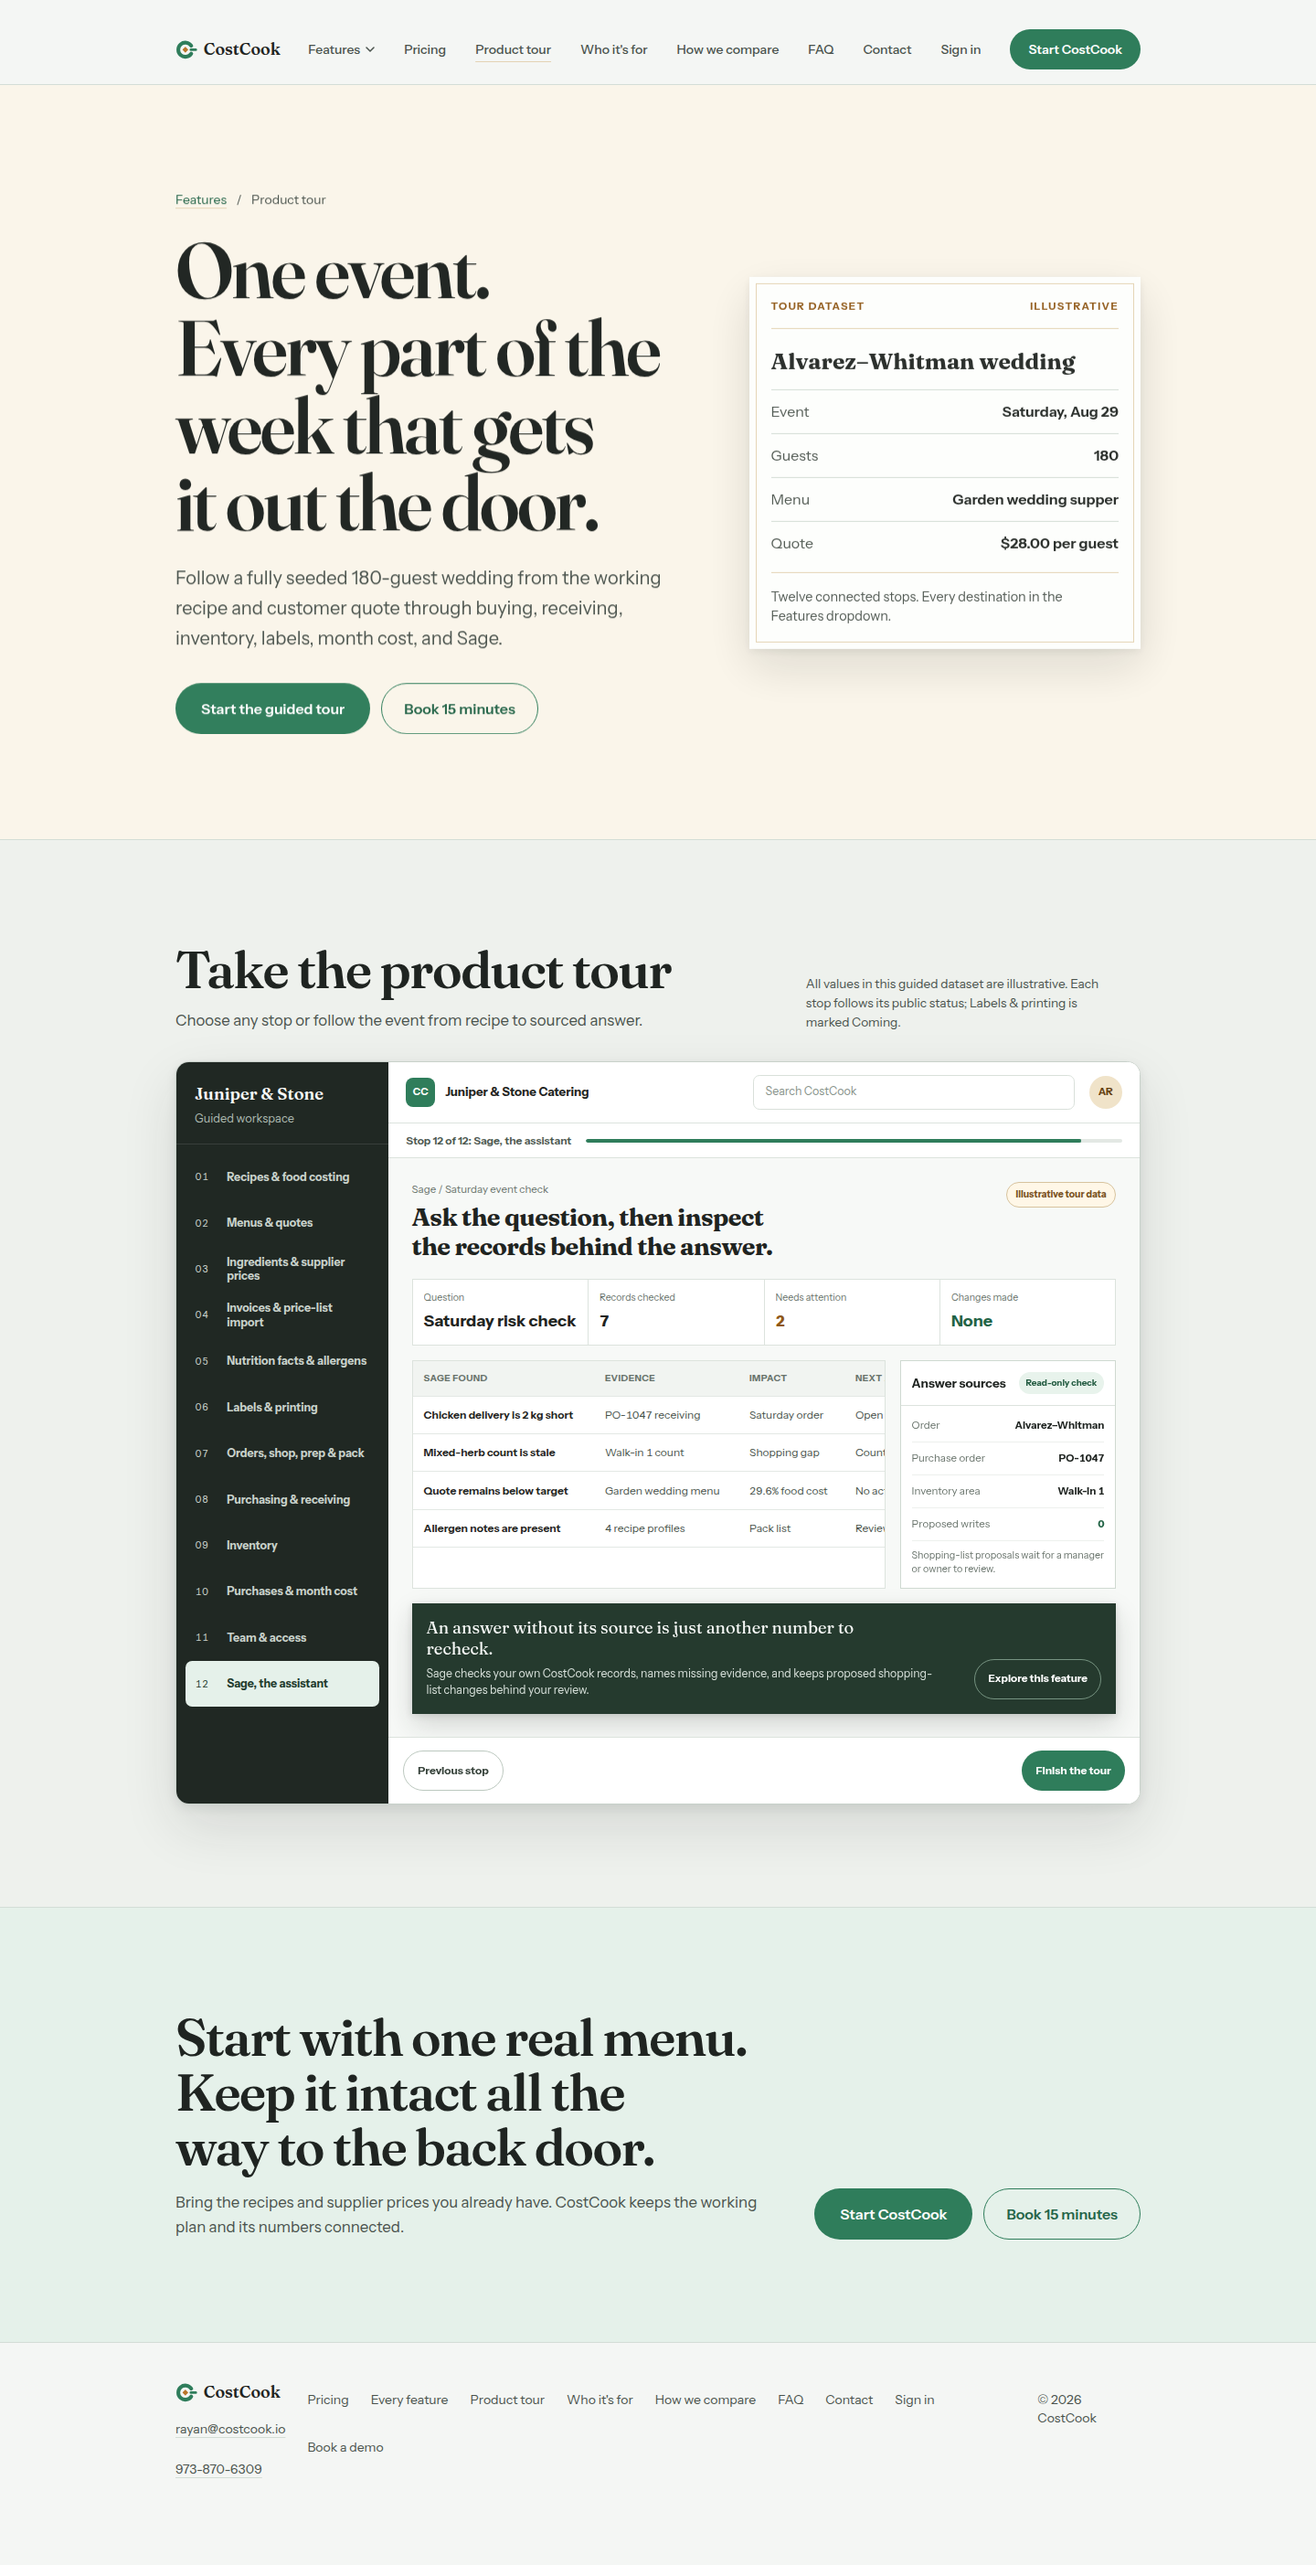
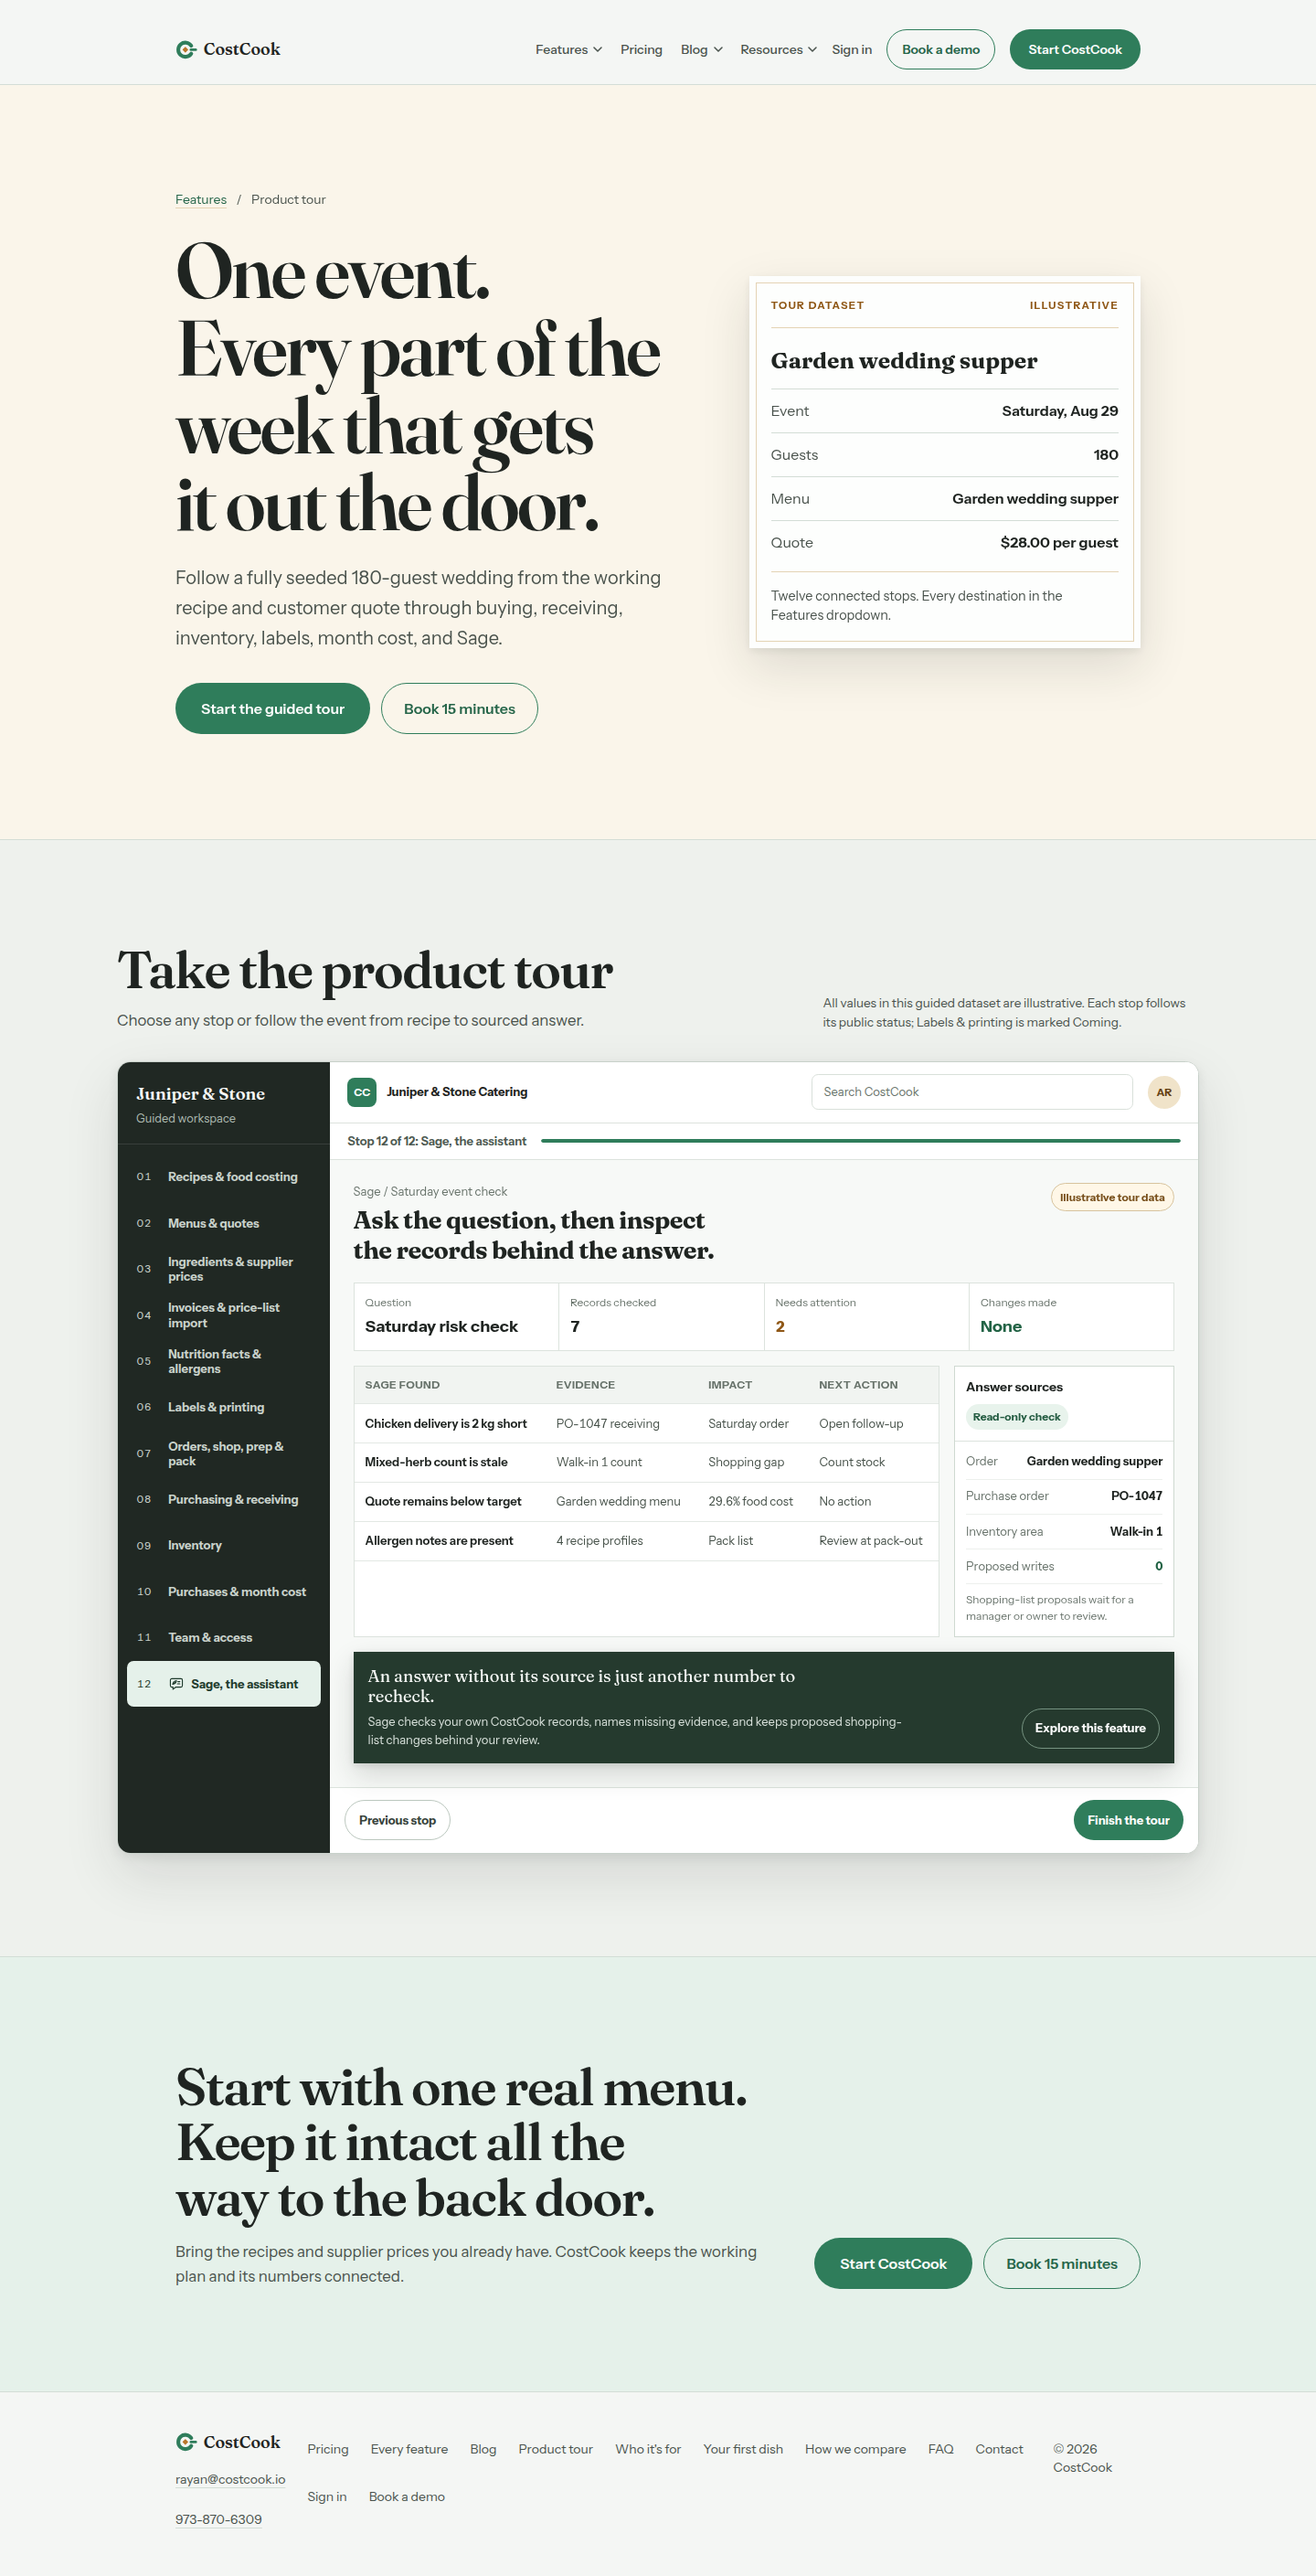
fix(tour): stop every stop clipping the column that carries the action (#65)
* fix(tour): stop every stop clipping the column that carries the action

All twelve tour stops cut their table off at 92px from the right edge on
desktop, hiding the last column, at every width from 1100px to 2560px.
On the Sage stop that column is NEXT ACTION, so the stop meant to prove
CostCook names the next move rendered "Open...", "Coun...", "No ac...".

The pane scrolls, so nothing looked broken enough to notice: the numbers
were reachable by a horizontal drag inside a panel on a 1440px screen.

Cause is arithmetic, not a breakpoint being slightly off. container-page
caps the shell at 1056px, the rail takes 14.5rem, so the content grid is
771px at EVERY desktop width, while the table's own 38rem min-width plus
the gap plus the aside's 13rem needs 832px. The old
`minmax(0, 1.75fr) minmax(13rem, .8fr)` let the table column collapse
under its content to absorb the difference, and more viewport never
helped because the container was already at its maximum.

Two changes:

- The workspace container goes to 80rem, matching the widening
  NutritionFactsAllergensFeature.astro already makes. This one section
  argues it is an application, and an app shell spends a rail on
  navigation before showing any content. The hero and close keep 72rem;
  they are prose and prose keeps its measure.
- The content grid becomes flex-wrap with each item asking for its own
  minimum as its basis. The aside now drops below the table exactly when
[…]

diff --git a/docs/stories/homepage-fold-promise.story.md b/docs/stories/homepage-fold-promise.story.md
@@ -1,0 +1,94 @@
+# Story Tracker — The promise moves into the fold
+
+## My story
+
+- **Piece:** The one-line promise that names the job, moved from the "See it run" heading into the homepage fold
+- **Title / headline:** Follow one 180-guest wedding from quote to shelf. Then three events in one run.
+- **My hero's name:** An owner-caterer reading on a phone, mid-shift, who arrived from a cold email and will decide in under a minute
+- **Content file(s):** `src/components/sections/Hero.astro`, `src/components/sections/SeeItRun.astro`
+- **Revises:** [homepage-guided-video.story.md](homepage-guided-video.story.md) (the line's previous home), [homepage-visual-guidance.story.md](homepage-visual-guidance.story.md) (the fold it now shares)
+
+## The 11 steps
+
+| # | Step | What you build | Done |
+|---|------|----------------|------|
+| 1 | The Idea | One sentence: WHO + WANT + WALL. | ☒ |
+| 2 | Your Character | Hero's insides: want, need, wound, flaw. | ☒ |
+| 3 | The Plot | 12 beats on the Save the Cat map. | ☒ |
+| 4 | From Beats to Scenes | 12 beats → the sections you will write. | ☒ |
+| 5 | Character Voices | The reader's voice and the product's voice. | ☒ |
+| 6 | Writing Dialogue | Each section turns a value, the McKee way. | ☒ |
+| 7 | Sorkin Dialogue | Headline and subhead as intention vs obstacle. | ☒ |
+| 8 | Cool Talk | One line of snap. | ☒ |
+| 9 | Bringing a Scene to Life | Senses and setting for the key scene. | ☒ |
+| 10 | Connecting Your Scenes | Hand-offs between sections; POV locked. | ☒ |
+| 11 | Revise and Finish | Cut, sharpen, make the ending land. Done! | ☒ |
+
+### Step 1 — The Idea
+
+> An owner-caterer skimming the fold on a phone wants to know within one screen whether this software is built for the job actually on their calendar, but the fold named a chain of verbs without ever naming a job, so the proof that it handles a real event sat 2,000px further down where a skimmer never reached it.
+
+### Step 2 — Your Character
+
+- **Want (surface):** Decide in under a minute whether a 15-minute demo is worth the time.
+- **Need (real):** See their own week described back to them before they will believe any claim about it.
+- **Wound (the bad day):** Bought a "restaurant" system that assumed a fixed menu and daily covers, and had to keep the wedding spreadsheet running anyway.
+- **Flaw (the habit):** Reads the first screen and leaves. Never scrolls to the section that would have answered the question.
+
+### Step 3 — The Plot (12 beats)
+
+This move touches two beats only. The rest of the homepage plot is unchanged and lives in the trackers listed above.
+
+| Beat | Before this move | After this move |
+|------|------------------|-----------------|
+| 1 Opening Image — life before | The fold names four verbs (cost, buy, prep, pack) and no job. The reader supplies their own example, or does not. | The fold names the verbs and then the job: a 180-guest wedding, and three events in one run. |
+| 2 Theme Stated — the truth they'll learn | Stated 2,000px down, as the heading of the film. | Stated in the fold, where the skimmer is. The film below now shows what the fold already promised. |
+
+### Step 4 — From Beats to Scenes
+
+One sentence changed scenes:
+
+- **Left:** the "See it run" section, where it was the `<h2>`. That section now opens on its eyebrow and lede. It still owns its beat (Catalyst — the delivery that arrives wrong); it no longer owns the promise.
+- **Arrived:** the fold, second line, between the `<h1>` and the lede. It does not take a beat from the fold. It makes the fold's existing beat specific.
+
+### Step 5 — Character Voices
+
+- **Reader's voice:** "a 180-guest wedding", "three events in one run". Their unit of work is the event and the head count, never the feature.
+- **Product's voice:** absent from this line on purpose. The sentence has no subject and names no product. "Follow" is an instruction to the reader, so the fold's second line belongs to them, not to us.
+
+### Step 6 — Writing Dialogue (the value it turns)
+
+Doubt → recognition. Not doubt → trust: one line cannot earn trust, and claiming it would be the prettier lie. It earns the next fifteen seconds of attention, which is all a fold is for.
+
+### Step 7 — Sorkin (intention vs obstacle)
+
+- **Intention:** "this is your week."
+- **Obstacle:** the reader's history of software built for a menu that does not change.
+- **Push:** "Then three events in one run" is the half that fights. One wedding could be a demo. Three at once is the thing their spreadsheet cannot do.
+
+### Step 8 — Cool Talk (the one snap line)
+
+> **Then three events in one run.**
+
+Concrete, specific to this trade, and not a sentence any competitor's homepage could carry. The page's snap line now sits in the fold instead of 2,000px down.
+
+Checked against the one-snap-per-page rule: the "See it run" section lost its heading in the same edit, so the page still carries exactly one.
+
+### Step 9 — Bringing a Scene to Life
+
+The reader is holding a phone with one hand, standing up, between prep and service. They have roughly one screen. The scene is not on our page: it is the wedding already on their calendar, which is why the line names an event and a head count rather than a capability.
+
+### Step 10 — Connecting Your Scenes
+
+- **Hand-off in:** the `<h1>` names the chain; this line names what the chain is carrying.
+- **Hand-off out:** the lede ("one job pretending to be six") explains why that job is hard, then the loop band draws it, then the pricing figure proves one number from it.
+- **POV:** second person throughout, unchanged.
+
+### Step 11 — Revise and Finish
+
+- Moved verbatim. The sentence was already cut to its bone in its previous home; rewriting it to "fit" the fold would have been a second, unasked-for edit.
+- **The fold cost was real, and paying it took a second edit.** The line alone added 100px. At 390×844 that left the pricing figure at 812px against an 844px fold: still straddling, but with no slack. At 320×844 it pushed the figure to 913.9px and `verify-homepage.mjs` failed outright — the fold assertion (`heroProofTop < height`, phones only) is what caught it.
+  The fix was not shaving margins to clear a threshold. Below `sm` the two fold paragraphs now step from `text-lede` to `text-base` **together**, so their relative weight is unchanged, and the section's top padding drops from `pt-14` to `pt-10`. A 19px lede for seven consecutive lines was heavy on a 320px screen regardless of this move.
+  Measured after: **320px → 795px** (clears by 49px), **390px → 671px** (clears by 173px, better than the 712px it measured *before* the line was added). `verify:homepage` passes at six viewports.
+- **Known defect shipped deliberately, on request:** removing the `<h2>` from "See it run" leaves that section's two `<h3>` following the page `<h1>` with no `<h2>` between them. This is a heading-order break against the AA floor in CLAUDE.md. It was asked for explicitly after the consequence was named. The remedy, if it is ever put back, is recorded in `SeeItRun.astro`: restore a heading there, or promote those two `<h3>` to `<h2>`.
+- Truth pass: the line makes no claim the app does not ship. The 180-guest wedding and the three-event run are both on camera in `public/demo.mp4` and both are covered by the sr-only transcript in `SeeItRun.astro`.
